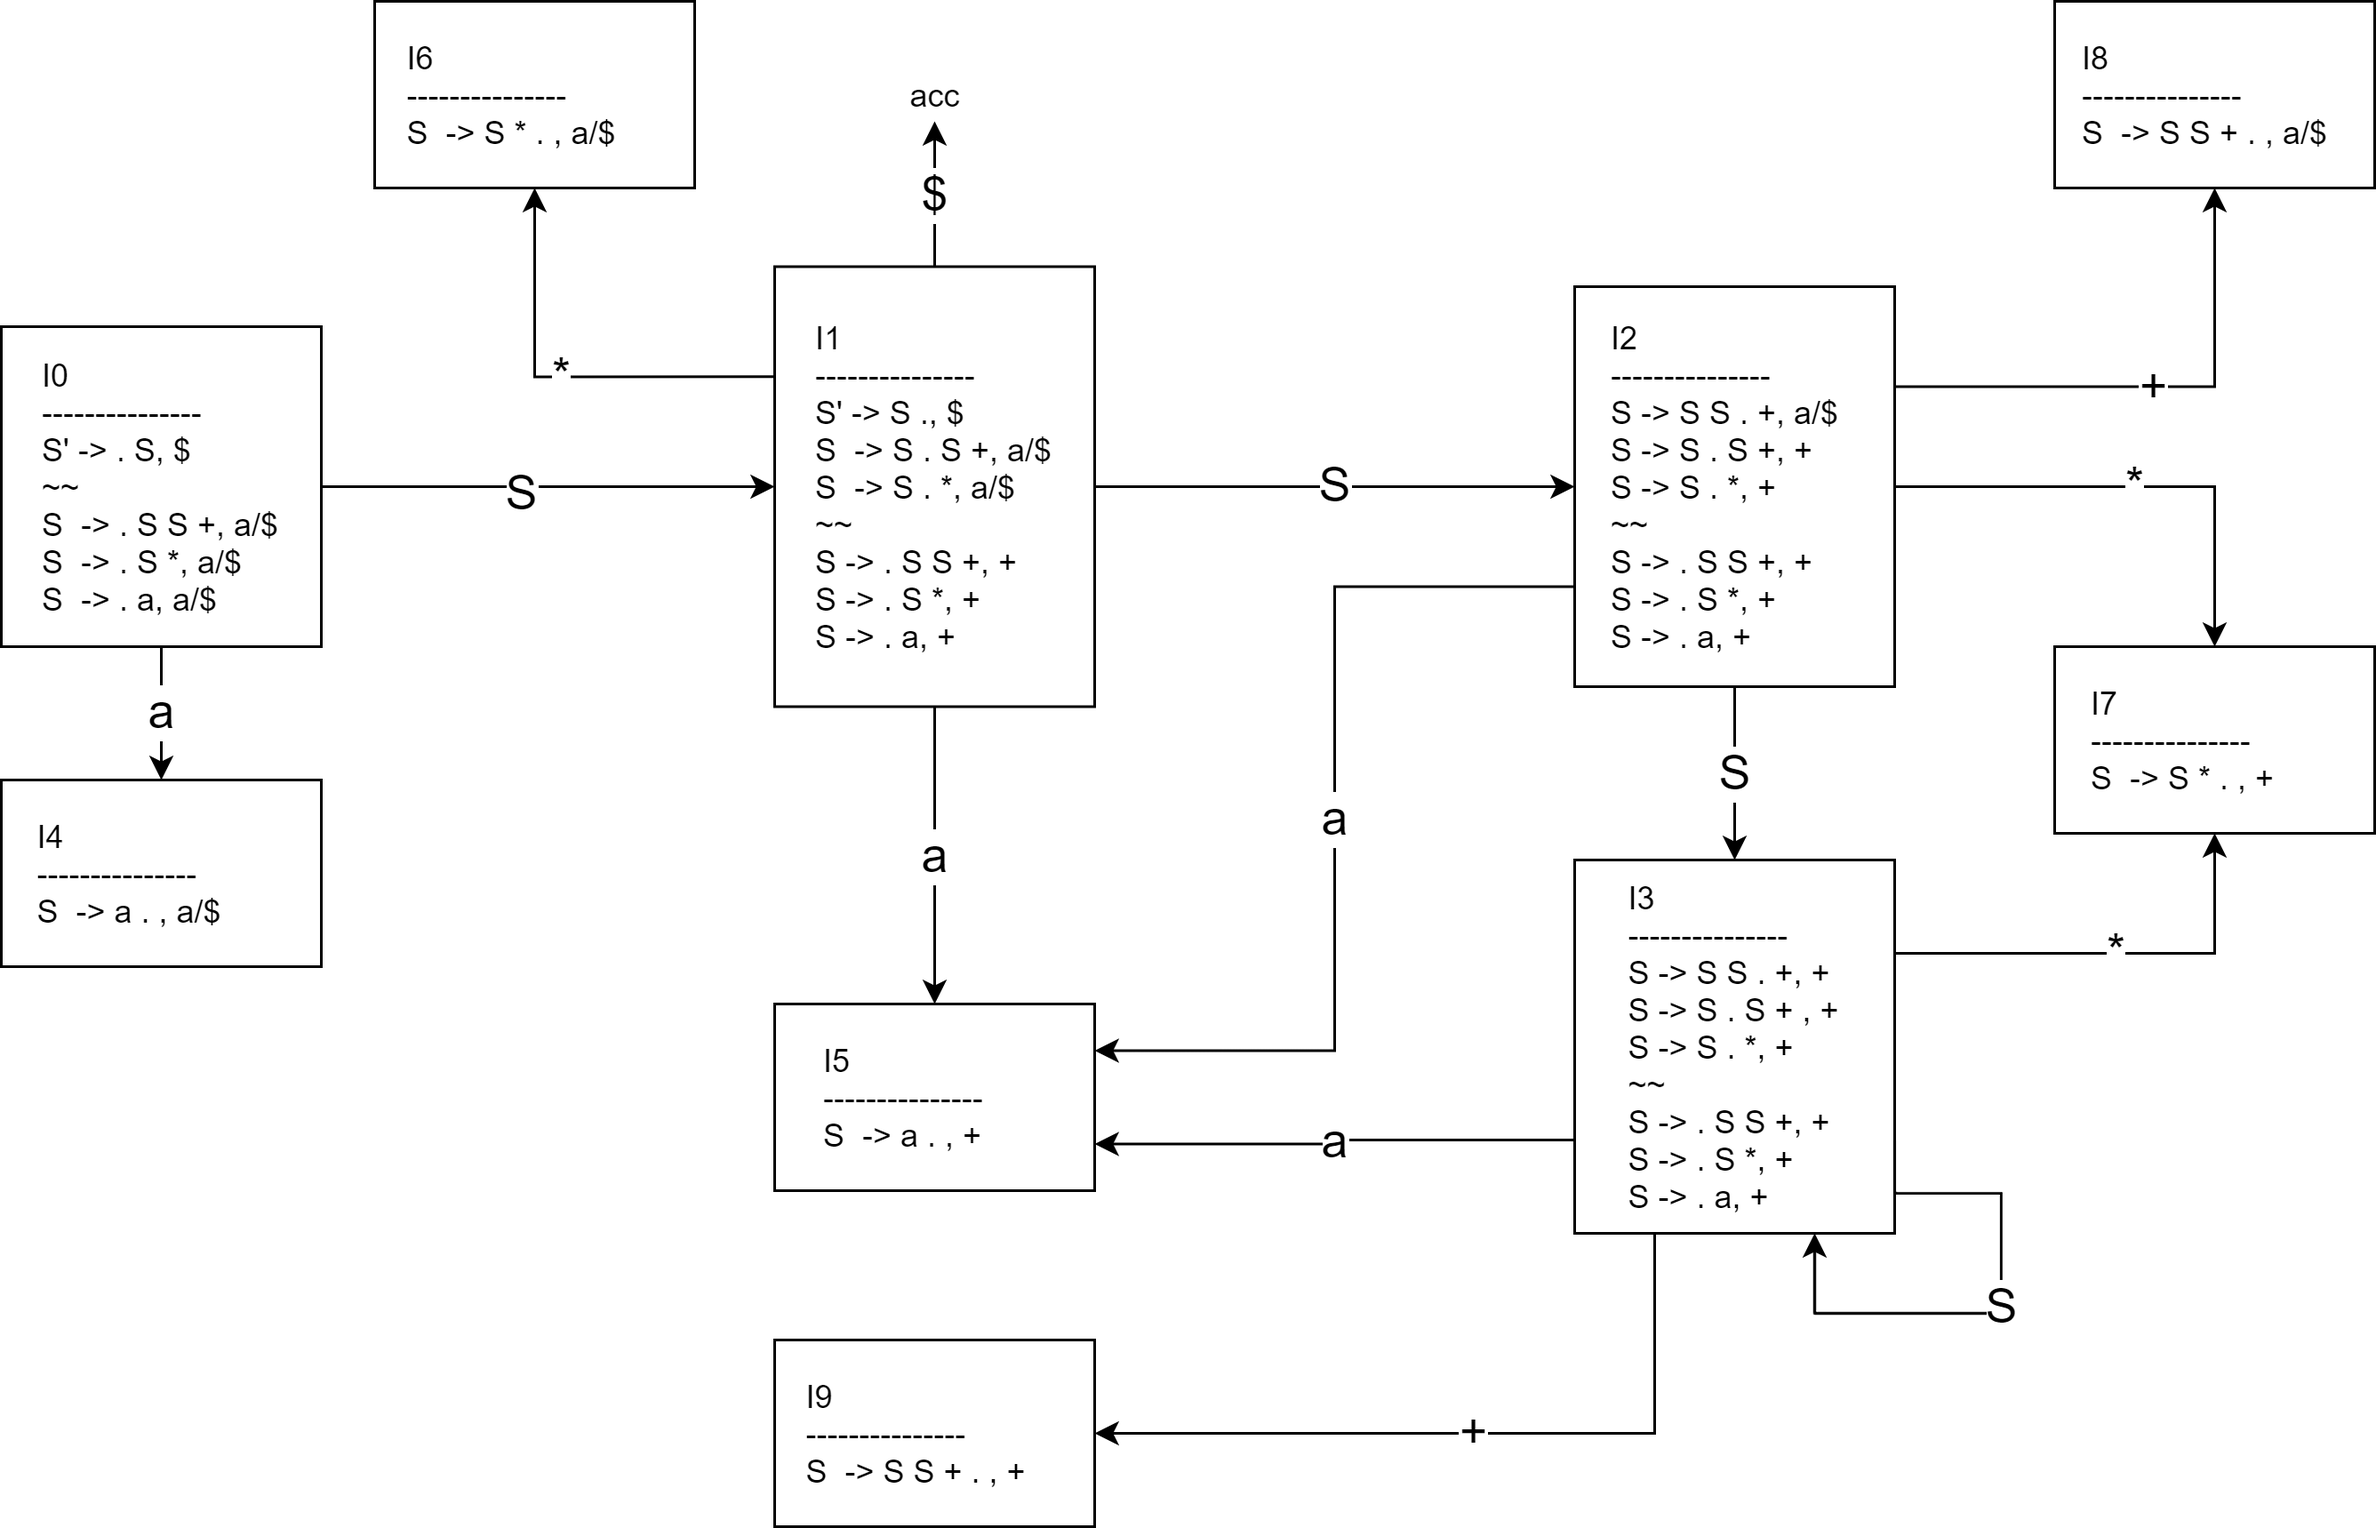
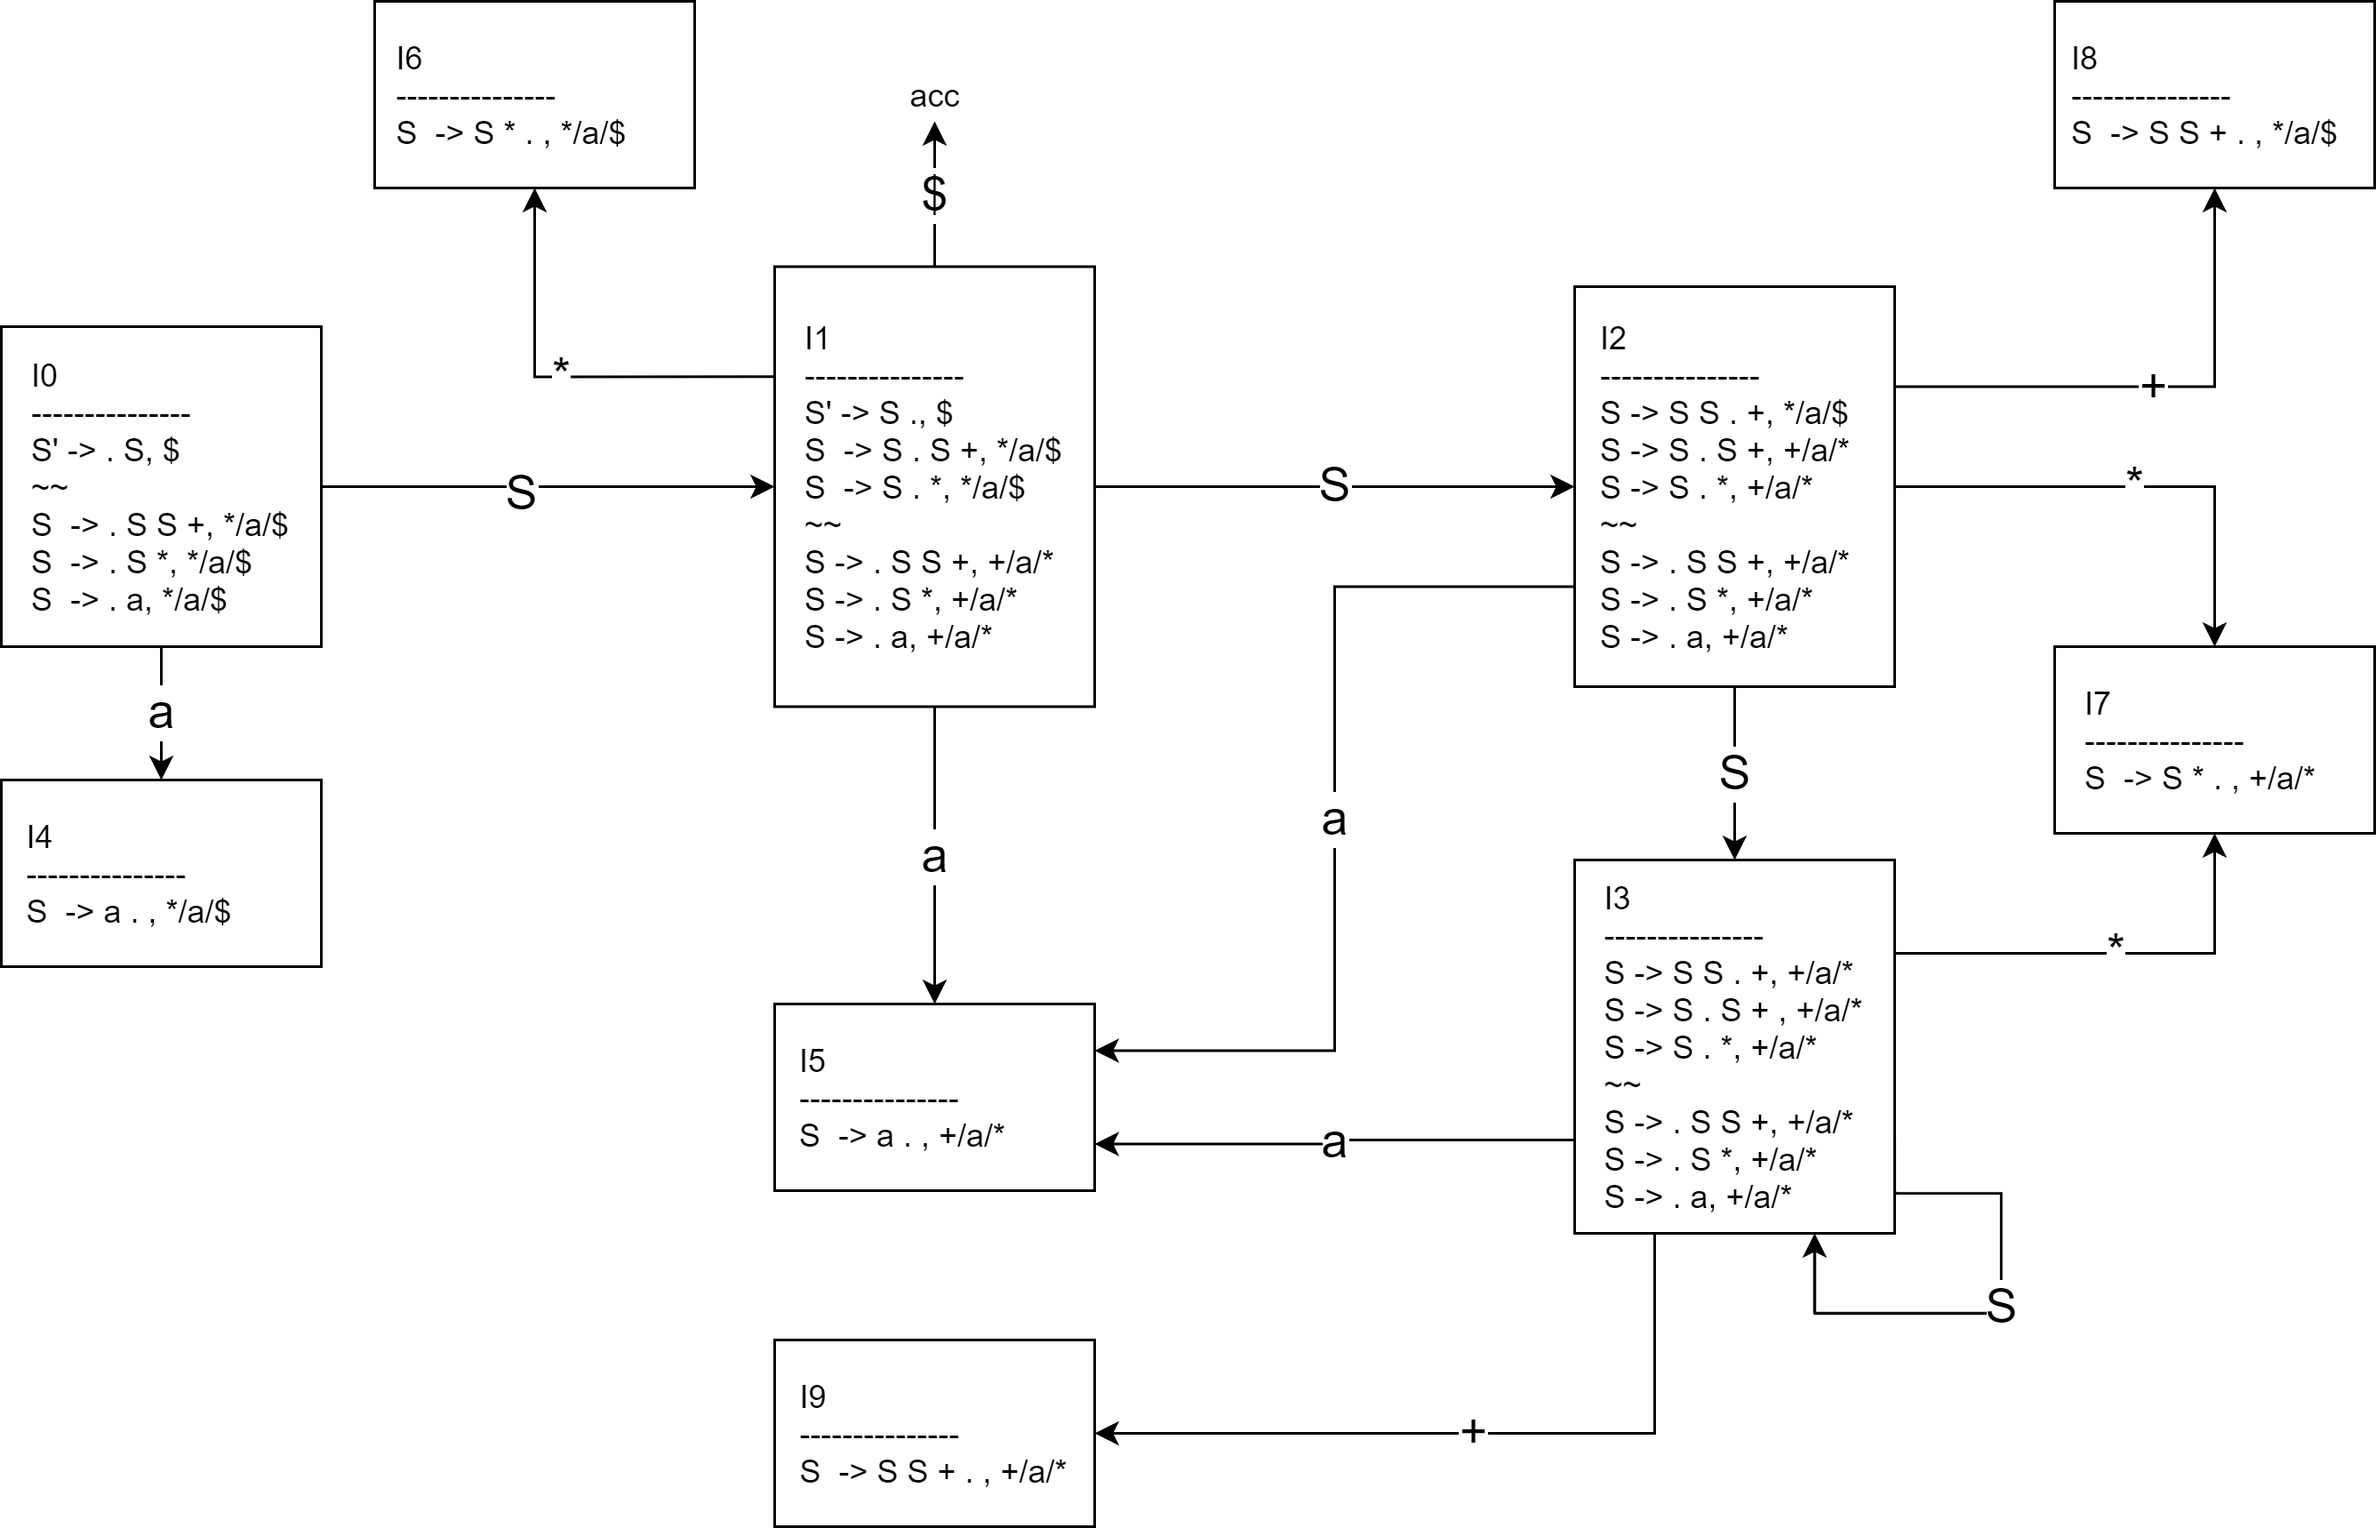
hw 04 03: modified, revised

diff --git a/docs/hw/hw_04_03.md b/docs/hw/hw_04_03.md
@@ -12,9 +12,13 @@
 
 ### Solution
 
+> 第 2 小问的题目有误: 该串无法推导.
+
+> 注意! 以后写的时候要 **写清楚句柄在串中的具体位置**.
+
 1. `S S +`
 2. `S *`
-3. `a`
+3. (第 1 个) `a`
 
 ## Ex. 2
 
@@ -28,9 +32,10 @@
 
 ### Solution
 
-**增广该文法**: (行号=编号)
+**增广该文法**: 添加到起始状态的 `S' -> S`
 
 ```
+(行号=编号)
 S' -> S
 S  -> S S +
 S  -> S *
@@ -39,9 +44,41 @@ S  -> a
 
 基于 LR(0) 项集族 `C={I0, I1, ...}` **构造 SLR 项目集**:
 
-> 注: 下图中单个方框为集合, `----` 以上是集合名, `~~` 上下分别为求闭包得到/内核项得到.
+> 原来做的时候, FOLLOW 集合判断错误; 后来发现其实是项目集族都有错误 (多写了一项).
 
-![ex02-lr-0](hw_04_03.assets/comp0403-ex2-lr-0.png)
+文法中的 FIRST 集合:
+
+```
+FIRST(S) = {a}
+FIRST(S S +) = {a}
+FIRST(S *) = {a}
+FIRST(a) = {a}
+```
+
+文法中的 FOLLOW 集合:
+
+```
+FOLLOW(S) = {$, +, *, a}
+```
+
+> 注:
+>
+> - 单个方框为集合,
+> - `----` 以上是集合名,
+> - `~~` 上下分别为求闭包得到/内核项得到.
+
+![ex02-lr-0](hw_04_03.assets/comp0403-ex2-lr-0.png){ : style="height:400px"}
+
+**语法分析表**:
+
+步骤:
+
+1. 对所有的 `A -> α . a β` 找移进操作;
+2. 对所有的 `A -> α .` 找归约操作;
+3. 把 `S' -> S` 对应的 `$` 项目设为 acc;
+4. 保留其他空白, 意为 error.
+
+![ex2-slr-table](hw_04_03.assets/comp0403-ex2-slr-table.png){ : style="height:150px"}
 
 **GOTO 函数**:
 
@@ -50,12 +87,6 @@ GOTO(I0, S) = I1, GOTO(I0, a) = I2,
 GOTO(I1, S) = I2, GOTO(I1, *) = I5, GOTO(I1, a) = I2, GOTO(I1, $) = acc
 GOTO(I3, a) = I2, GOTO(I3, S) = I3, GOTO(I3, +) = I4, GOTO(I3, *) = I5
 ```
-
-FOLLOW(s): `FOLLOW(S) = {$}`
-
-**语法分析表**:
-
-![ex2-slr-table](hw_04_03.assets/comp0403-ex2-slr-table.png)
 
 **判断**: 该文法是 SLR 文法, 因为没有出现冲突的条目.
 
@@ -71,7 +102,7 @@ FOLLOW(s): `FOLLOW(S) = {$}`
 
 ### Solution
 
-增广文法, 行号=编号:
+增广文法:
 
 ```
 S' -> S
@@ -80,9 +111,24 @@ S  -> S *
 S  -> a
 ```
 
+文法中的 FIRST 集合:
+
+```
+FIRST(S) = {a}
+FIRST(S S +) = {a}
+FIRST(S *) = {a}
+FIRST(a) = {a}
+```
+
+文法中的 FOLLOW 集合:
+
+```
+FOLLOW(S) = {$, +, *, a}
+```
+
 **构造规范 LR 项目集族**:
 
-![ex02-lr-1](hw_04_03.assets/comp0403-ex2-lr-1.png)
+![ex02-lr-1](hw_04_03.assets/comp0403-ex2-lr-1.png){ : style="height:400px"}
 
 GOTO 函数:
 
@@ -95,8 +141,8 @@ GOTO(I3, S)=I3, GOTO(I3, a)=I5, GOTO(I3, *)=I7, GOTO(I3, +)=I9
 
 **构建语法分析表**:
 
-![comp0403-ex2-lr1-table](hw_04_03.assets/comp0403-ex2-lr1-table.png)
+![comp0403-ex2-lr1-table](hw_04_03.assets/comp0403-ex2-lr1-table.png){ : style="height:180px"}
 
 **构建 LALR 项目集族**:
 
-![comp0403-ex2-lalr](hw_04_03.assets/comp0403-ex2-lalr.png)
+![comp0403-ex2-lalr](hw_04_03.assets/comp0403-ex2-lalr.png){ : style="height:350px"}
